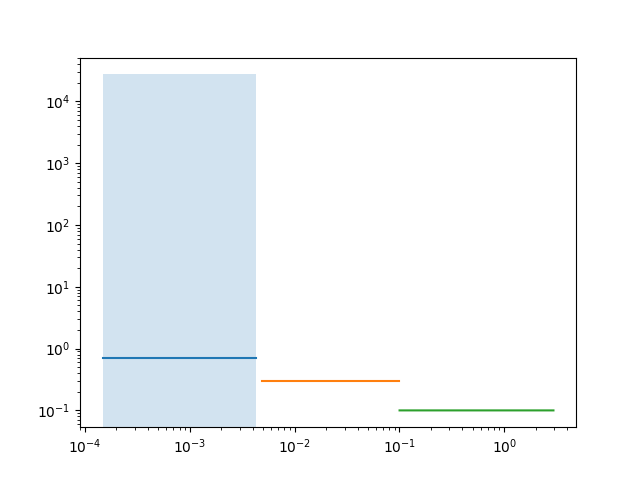
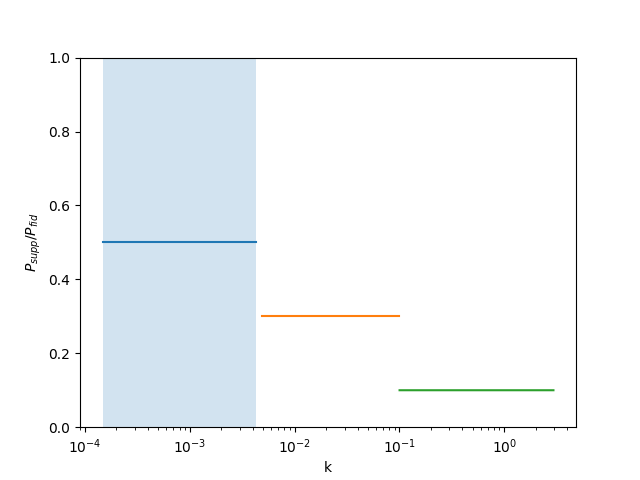
cleaned folder structure

diff --git a/tests/test_clkk_basis_funcs.py b/tests/test_clkk_basis_funcs.py
@@ -6,8 +6,8 @@ import pk_func as pk1
 import numpy as np
 import matplotlib.pyplot as plt
 
-alphas = np.array([0.7,0.5,0.3])
-k_bins = np.array([5e-5,5e-3,1e-1,3e3])
+alphas = np.array([0.5,0.3,0.1])
+k_bins = np.array([4.5e-5,4.5e-3,1.0e-1,3.0e3])
 
 pkcl1 = pk1.Cl_kk_supp()
 pkcl2 = pk2.Cl_kk_supp()
@@ -42,9 +42,19 @@ for i in range(len(alphas)):
 #plt.loglog(cents,data_binned,label="sup, original,binned")
 plt.xscale("log")
 plt.legend()
-plt.savefig("../plots/cl_kk_old_new_basis_funcs.png")
+plt.savefig("../plots/cl_kk_fid_basis_funcs.png")
 
 
+fig = plt.figure()
+#plt.plot(pkcl1.ells,Cl_o,label="not sup, original")
+#plt.loglog(pkcl1.ells,Cl_1,label="sup, origianl")
+for i in range(len(alphas)):
+    lab = 'k_bin = ['+str(k_bins[i])+" ,"+str(k_bins[i+1])+"]"
+    plt.plot(pkcl2.ells,alphas[i]*Cl_2[:,i],label=lab)
+#plt.loglog(cents,data_binned,label="sup, original,binned")
+plt.xscale("log")
+plt.legend()
+plt.savefig("../plots/cl_kk_sup_basis_funcs.png")
 #cl_arr = np.vstack((cents,data_binned))
 #np.savetxt("../mock_data/mock_cl_z_0.4_lin_fit.txt",cl_arr)
 #np.savetxt("../mock_data/mock_cinv_z_0.4_lin_fit.txt",cinv)

diff --git a/tests/test_pk_basis_funcs.py b/tests/test_pk_basis_funcs.py
@@ -16,7 +16,7 @@ k = (ells + 0.5)/chi
 
 k_bins = np.array([4.5e-5,4.5e-3,1.0e-1,3.0e+3])
 #pkcl.n_alphas = len(pkcl.k_bins) - 1
-alphas = np.array([0.7,0.3,0.1])
+alphas = np.array([0.5,0.3,0.1])
 
 cents,data_binned,cinv = pkcl.make_mock_data(alphas,k_bins)
 
@@ -46,7 +46,9 @@ for i in range(rat.shape[1]):
     plt.plot(k[inds],rat[inds,i])
     plt.fill_between(k[inds],rat[inds,i]-errs_arr[i],rat[inds,i]+errs_arr[i],alpha=0.2)
 plt.xscale("log")
-plt.yscale("log")
+plt.xlabel("k")
+plt.ylabel("$P_{supp}/P_{fid}$")
+plt.ylim(0,1)
 plt.savefig("../plots/pk_alpha_errs.png")
 
 fig = plt.figure()
